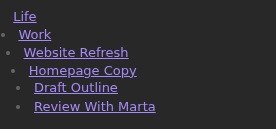
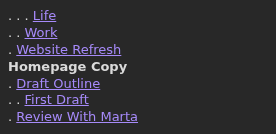
feat: new tree styling

Changed region(s): [[0.0, 0.062, 0.5797, 0.9302]]

diff --git a/docs/features/views-tree/index.html b/docs/features/views-tree/index.html
@@ -1,4 +1,4 @@
-<!DOCTYPE html><html lang="en" dir="ltr" data-theme="dark" data-has-toc data-has-sidebar class="astro-vdxcvpsm"><head><meta charset="utf-8"/><meta name="viewport" content="width=device-width, initial-scale=1"/><title>Tree view | Tasks Eye</title><link rel="canonical" href="https://ggajos.github.io/ggajos-tasks-eye/features/views-tree/"/><link rel="sitemap" href="/ggajos-tasks-eye/sitemap-index.xml"/><script>try{if(!localStorage.getItem('starlight-theme'))localStorage.setItem('starlight-theme','dark')}catch{}</script><link rel="shortcut icon" href="/ggajos-tasks-eye/favicon.svg" type="image/svg+xml"/><meta name="generator" content="Astro v7.0.7"/><meta name="generator" content="Starlight v0.41.3"/><meta property="og:title" content="Tree view"/><meta property="og:type" content="article"/><meta property="og:url" content="https://ggajos.github.io/ggajos-tasks-eye/features/views-tree/"/><meta property="og:locale" content="en"/><meta property="og:description" content="The Tree view opens in a side panel and shows where the active note sits in the `up` hierarchy: the spine from the root down to the current note, then the full subtree of notes beneath it, rendered as a nested list of native Obsidian links."/><meta property="og:site_name" content="Tasks Eye"/><meta name="twitter:card" content="summary_large_image"/><meta name="description" content="The Tree view opens in a side panel and shows where the active note sits in the `up` hierarchy: the spine from the root down to the current note, then the full subtree of notes beneath it, rendered as a nested list of native Obsidian links."/><script>
+<!DOCTYPE html><html lang="en" dir="ltr" data-theme="dark" data-has-toc data-has-sidebar class="astro-vdxcvpsm"><head><meta charset="utf-8"/><meta name="viewport" content="width=device-width, initial-scale=1"/><title>Tree view | Tasks Eye</title><link rel="canonical" href="https://ggajos.github.io/ggajos-tasks-eye/features/views-tree/"/><link rel="sitemap" href="/ggajos-tasks-eye/sitemap-index.xml"/><script>try{if(!localStorage.getItem('starlight-theme'))localStorage.setItem('starlight-theme','dark')}catch{}</script><link rel="shortcut icon" href="/ggajos-tasks-eye/favicon.svg" type="image/svg+xml"/><meta name="generator" content="Astro v7.0.7"/><meta name="generator" content="Starlight v0.41.3"/><meta property="og:title" content="Tree view"/><meta property="og:type" content="article"/><meta property="og:url" content="https://ggajos.github.io/ggajos-tasks-eye/features/views-tree/"/><meta property="og:locale" content="en"/><meta property="og:description" content="The Tree view opens in a side panel and shows where the active note sits in the `up` hierarchy: the spine from the root down to the current note, then the full subtree of notes beneath it, with dot prefixes that show distance from the current note."/><meta property="og:site_name" content="Tasks Eye"/><meta name="twitter:card" content="summary_large_image"/><meta name="description" content="The Tree view opens in a side panel and shows where the active note sits in the `up` hierarchy: the spine from the root down to the current note, then the full subtree of notes beneath it, with dot prefixes that show distance from the current note."/><script>
 	window.StarlightThemeProvider = (() => {
 		const storedTheme =
 			typeof localStorage !== 'undefined' && localStorage.getItem('starlight-theme');
@@ -70,7 +70,7 @@
 		})();
 	</script></sl-sidebar-state-persist><div class="md:sl-hidden"><div class="mobile-preferences sl-flex astro-b5gddk54"><div class="social-icons astro-b5gddk54"><a href="https://github.com/ggajos/ggajos-tasks-eye" rel="me" class="sl-flex astro-cg55etiy"><span class="sr-only astro-cg55etiy">GitHub</span><svg aria-hidden="true" class="astro-cg55etiy astro-n5k4ipy7" width="16" height="16" viewBox="0 0 24 24" fill="currentColor" style="--sl-icon-size: 1em;"><path d="M12 .3a12 12 0 0 0-3.8 23.38c.6.12.83-.26.83-.57L9 21.07c-3.34.72-4.04-1.61-4.04-1.61-.55-1.39-1.34-1.76-1.34-1.76-1.08-.74.09-.73.09-.73 1.2.09 1.83 1.24 1.83 1.24 1.08 1.83 2.81 1.3 3.5 1 .1-.78.42-1.31.76-1.61-2.67-.3-5.47-1.33-5.47-5.93 0-1.31.47-2.38 1.24-3.22-.14-.3-.54-1.52.1-3.18 0 0 1-.32 3.3 1.23a11.5 11.5 0 0 1 6 0c2.28-1.55 3.29-1.23 3.29-1.23.64 1.66.24 2.88.12 3.18a4.65 4.65 0 0 1 1.23 3.22c0 4.61-2.8 5.63-5.48 5.92.42.36.81 1.1.81 2.22l-.01 3.29c0 .31.2.69.82.57A12 12 0 0 0 12 .3Z"/></svg></a></div><starlight-theme-select><label style="--sl-select-width: 6.25em" class="astro-r2p65idu"><span class="sr-only astro-r2p65idu">Select theme</span><svg aria-hidden="true" class="icon label-icon astro-r2p65idu astro-n5k4ipy7" width="16" height="16" viewBox="0 0 24 24" fill="currentColor" style="--sl-icon-size: 1em;"><path d="M21 14h-1V7a3 3 0 0 0-3-3H7a3 3 0 0 0-3 3v7H3a1 1 0 0 0-1 1v2a3 3 0 0 0 3 3h14a3 3 0 0 0 3-3v-2a1 1 0 0 0-1-1ZM6 7a1 1 0 0 1 1-1h10a1 1 0 0 1 1 1v7H6V7Zm14 10a1 1 0 0 1-1 1H5a1 1 0 0 1-1-1v-1h16v1Z"/></svg><select autocomplete="off" class="astro-r2p65idu"><option value="dark" class="astro-r2p65idu">Dark</option><option value="light" class="astro-r2p65idu">Light</option><option value="auto" selected class="astro-r2p65idu">Auto</option></select><svg aria-hidden="true" class="icon caret astro-r2p65idu astro-n5k4ipy7" width="16" height="16" viewBox="0 0 24 24" fill="currentColor" style="--sl-icon-size: 1em;"><path d="M17 9.17a1 1 0 0 0-1.41 0L12 12.71 8.46 9.17a1 1 0 1 0-1.41 1.42l4.24 4.24a1.002 1.002 0 0 0 1.42 0L17 10.59a1.002 1.002 0 0 0 0-1.42Z"/></svg></label></starlight-theme-select><script>
 	StarlightThemeProvider.updatePickers();
-</script></div></div></div></div></nav><div class="main-frame astro-gqpr5s5a"><script type="module">var e=document.getElementById(`starlight__sidebar`),t=e?.querySelector(`sl-sidebar-state-persist`),n=`sl-sidebar-state`,r=()=>{let r=[],i=t?.dataset.hash||``;try{let e=sessionStorage.getItem(n),t=JSON.parse(e||`{}`);Array.isArray(t.open)&&t.hash===i&&(r=t.open)}catch{}return{hash:i,open:r,scroll:e?.scrollTop||0}},i=e=>{try{sessionStorage.setItem(n,JSON.stringify(e))}catch{}},a=()=>i(r()),o=(e,t)=>{let n=r();n.open[t]=e,i(n)};t?.addEventListener(`click`,e=>{if(!(e.target instanceof Element))return;let t=e.target.closest(`summary`)?.closest(`details`);if(!t)return;let n=t.querySelector(`sl-sidebar-restore`),r=parseInt(n?.dataset.index||``);isNaN(r)||o(!t.open,r)}),addEventListener(`visibilitychange`,()=>{document.visibilityState===`hidden`&&a()}),addEventListener(`pageHide`,a);</script><div class="lg:sl-flex astro-abfeecmu"><aside class="right-sidebar-container print:hidden astro-abfeecmu"><div class="right-sidebar astro-abfeecmu"><div class="lg:sl-hidden astro-q5mffni3"><mobile-starlight-toc data-min-h="2" data-max-h="3" class="astro-5ulgm6bh"><nav aria-labelledby="starlight__on-this-page--mobile" class="astro-5ulgm6bh"><details id="starlight__mobile-toc" class="astro-5ulgm6bh"><summary id="starlight__on-this-page--mobile" class="sl-flex astro-5ulgm6bh"><span class="toggle sl-flex astro-5ulgm6bh">On this page<svg aria-hidden="true" class="caret astro-5ulgm6bh astro-n5k4ipy7" width="16" height="16" viewBox="0 0 24 24" fill="currentColor" style="--sl-icon-size: 1rem;"><path d="m14.83 11.29-4.24-4.24a1 1 0 1 0-1.42 1.41L12.71 12l-3.54 3.54a1 1 0 0 0 0 1.41 1 1 0 0 0 .71.29 1 1 0 0 0 .71-.29l4.24-4.24a1.002 1.002 0 0 0 0-1.42Z"/></svg></span><span class="display-current astro-5ulgm6bh"></span></summary><div class="dropdown astro-5ulgm6bh"><ul class="isMobile astro-cxyftcne" style="--depth: 0;"><li style="--depth: 0;" class="astro-cxyftcne"><a href="#_top" style="--depth: 0;" class="astro-cxyftcne"><span style="--depth: 0;" class="astro-cxyftcne">Overview</span></a></li><li style="--depth: 0;" class="astro-cxyftcne"><a href="#why-it-matters" style="--depth: 0;" class="astro-cxyftcne"><span style="--depth: 0;" class="astro-cxyftcne">Why it matters</span></a></li><li style="--depth: 0;" class="astro-cxyftcne"><a href="#what-to-expect" style="--depth: 0;" class="astro-cxyftcne"><span style="--depth: 0;" class="astro-cxyftcne">What to expect</span></a></li><li style="--depth: 0;" class="astro-cxyftcne"><a href="#what-it-looks-like" style="--depth: 0;" class="astro-cxyftcne"><span style="--depth: 0;" class="astro-cxyftcne">What it looks like</span></a><ul class="isMobile astro-cxyftcne" style="--depth: 1;"><li style="--depth: 1;" class="astro-cxyftcne"><a href="#the-tree-side-panel" style="--depth: 1;" class="astro-cxyftcne"><span style="--depth: 1;" class="astro-cxyftcne">The Tree side panel</span></a></li></ul></li></ul></div></details></nav></mobile-starlight-toc><script type="module" src="/ggajos-tasks-eye/assets/starlight/MobileTableOfContents.astro_astro_type_script_index_0_lang.BcSo_yiZ.js"></script></div><div class="right-sidebar-panel sl-hidden lg:sl-block astro-q5mffni3"><div class="sl-container astro-q5mffni3"><starlight-toc data-min-h="2" data-max-h="3"><nav aria-labelledby="starlight__on-this-page"><h2 id="starlight__on-this-page">On this page</h2><ul class="astro-cxyftcne" style="--depth: 0;"><li style="--depth: 0;" class="astro-cxyftcne"><a href="#_top" style="--depth: 0;" class="astro-cxyftcne"><span style="--depth: 0;" class="astro-cxyftcne">Overview</span></a></li><li style="--depth: 0;" class="astro-cxyftcne"><a href="#why-it-matters" style="--depth: 0;" class="astro-cxyftcne"><span style="--depth: 0;" class="astro-cxyftcne">Why it matters</span></a></li><li style="--depth: 0;" class="astro-cxyftcne"><a href="#what-to-expect" style="--depth: 0;" class="astro-cxyftcne"><span style="--depth: 0;" class="astro-cxyftcne">What to expect</span></a></li><li style="--depth: 0;" class="astro-cxyftcne"><a href="#what-it-looks-like" style="--depth: 0;" class="astro-cxyftcne"><span style="--depth: 0;" class="astro-cxyftcne">What it looks like</span></a><ul class="astro-cxyftcne" style="--depth: 1;"><li style="--depth: 1;" class="astro-cxyftcne"><a href="#the-tree-side-panel" style="--depth: 1;" class="astro-cxyftcne"><span style="--depth: 1;" class="astro-cxyftcne">The Tree side panel</span></a></li></ul></li></ul></nav></starlight-toc><script type="module" src="/ggajos-tasks-eye/assets/starlight/TableOfContents.astro_astro_type_script_index_0_lang.Csloo1VZ.js"></script></div></div></div></aside><div class="main-pane astro-abfeecmu"><main data-pagefind-body class="astro-vdxcvpsm" lang="en" dir="ltr"><div class="content-panel astro-oil7k7jf"><div class="sl-container astro-oil7k7jf"><h1 id="_top" class="astro-2sm4b3ln">Tree view</h1></div></div><div class="content-panel astro-oil7k7jf"><div class="sl-container astro-oil7k7jf"><div class="sl-markdown-content"><p>The Tree view opens in a side panel and shows where the active note sits in the <code dir="auto">up</code> hierarchy: the spine from the root down to the current note, then the full subtree of notes beneath it, rendered as a nested list of native Obsidian links.</p>
+</script></div></div></div></div></nav><div class="main-frame astro-gqpr5s5a"><script type="module">var e=document.getElementById(`starlight__sidebar`),t=e?.querySelector(`sl-sidebar-state-persist`),n=`sl-sidebar-state`,r=()=>{let r=[],i=t?.dataset.hash||``;try{let e=sessionStorage.getItem(n),t=JSON.parse(e||`{}`);Array.isArray(t.open)&&t.hash===i&&(r=t.open)}catch{}return{hash:i,open:r,scroll:e?.scrollTop||0}},i=e=>{try{sessionStorage.setItem(n,JSON.stringify(e))}catch{}},a=()=>i(r()),o=(e,t)=>{let n=r();n.open[t]=e,i(n)};t?.addEventListener(`click`,e=>{if(!(e.target instanceof Element))return;let t=e.target.closest(`summary`)?.closest(`details`);if(!t)return;let n=t.querySelector(`sl-sidebar-restore`),r=parseInt(n?.dataset.index||``);isNaN(r)||o(!t.open,r)}),addEventListener(`visibilitychange`,()=>{document.visibilityState===`hidden`&&a()}),addEventListener(`pageHide`,a);</script><div class="lg:sl-flex astro-abfeecmu"><aside class="right-sidebar-container print:hidden astro-abfeecmu"><div class="right-sidebar astro-abfeecmu"><div class="lg:sl-hidden astro-q5mffni3"><mobile-starlight-toc data-min-h="2" data-max-h="3" class="astro-5ulgm6bh"><nav aria-labelledby="starlight__on-this-page--mobile" class="astro-5ulgm6bh"><details id="starlight__mobile-toc" class="astro-5ulgm6bh"><summary id="starlight__on-this-page--mobile" class="sl-flex astro-5ulgm6bh"><span class="toggle sl-flex astro-5ulgm6bh">On this page<svg aria-hidden="true" class="caret astro-5ulgm6bh astro-n5k4ipy7" width="16" height="16" viewBox="0 0 24 24" fill="currentColor" style="--sl-icon-size: 1rem;"><path d="m14.83 11.29-4.24-4.24a1 1 0 1 0-1.42 1.41L12.71 12l-3.54 3.54a1 1 0 0 0 0 1.41 1 1 0 0 0 .71.29 1 1 0 0 0 .71-.29l4.24-4.24a1.002 1.002 0 0 0 0-1.42Z"/></svg></span><span class="display-current astro-5ulgm6bh"></span></summary><div class="dropdown astro-5ulgm6bh"><ul class="isMobile astro-cxyftcne" style="--depth: 0;"><li style="--depth: 0;" class="astro-cxyftcne"><a href="#_top" style="--depth: 0;" class="astro-cxyftcne"><span style="--depth: 0;" class="astro-cxyftcne">Overview</span></a></li><li style="--depth: 0;" class="astro-cxyftcne"><a href="#why-it-matters" style="--depth: 0;" class="astro-cxyftcne"><span style="--depth: 0;" class="astro-cxyftcne">Why it matters</span></a></li><li style="--depth: 0;" class="astro-cxyftcne"><a href="#what-to-expect" style="--depth: 0;" class="astro-cxyftcne"><span style="--depth: 0;" class="astro-cxyftcne">What to expect</span></a></li><li style="--depth: 0;" class="astro-cxyftcne"><a href="#what-it-looks-like" style="--depth: 0;" class="astro-cxyftcne"><span style="--depth: 0;" class="astro-cxyftcne">What it looks like</span></a><ul class="isMobile astro-cxyftcne" style="--depth: 1;"><li style="--depth: 1;" class="astro-cxyftcne"><a href="#the-tree-side-panel" style="--depth: 1;" class="astro-cxyftcne"><span style="--depth: 1;" class="astro-cxyftcne">The Tree side panel</span></a></li></ul></li></ul></div></details></nav></mobile-starlight-toc><script type="module" src="/ggajos-tasks-eye/assets/starlight/MobileTableOfContents.astro_astro_type_script_index_0_lang.BcSo_yiZ.js"></script></div><div class="right-sidebar-panel sl-hidden lg:sl-block astro-q5mffni3"><div class="sl-container astro-q5mffni3"><starlight-toc data-min-h="2" data-max-h="3"><nav aria-labelledby="starlight__on-this-page"><h2 id="starlight__on-this-page">On this page</h2><ul class="astro-cxyftcne" style="--depth: 0;"><li style="--depth: 0;" class="astro-cxyftcne"><a href="#_top" style="--depth: 0;" class="astro-cxyftcne"><span style="--depth: 0;" class="astro-cxyftcne">Overview</span></a></li><li style="--depth: 0;" class="astro-cxyftcne"><a href="#why-it-matters" style="--depth: 0;" class="astro-cxyftcne"><span style="--depth: 0;" class="astro-cxyftcne">Why it matters</span></a></li><li style="--depth: 0;" class="astro-cxyftcne"><a href="#what-to-expect" style="--depth: 0;" class="astro-cxyftcne"><span style="--depth: 0;" class="astro-cxyftcne">What to expect</span></a></li><li style="--depth: 0;" class="astro-cxyftcne"><a href="#what-it-looks-like" style="--depth: 0;" class="astro-cxyftcne"><span style="--depth: 0;" class="astro-cxyftcne">What it looks like</span></a><ul class="astro-cxyftcne" style="--depth: 1;"><li style="--depth: 1;" class="astro-cxyftcne"><a href="#the-tree-side-panel" style="--depth: 1;" class="astro-cxyftcne"><span style="--depth: 1;" class="astro-cxyftcne">The Tree side panel</span></a></li></ul></li></ul></nav></starlight-toc><script type="module" src="/ggajos-tasks-eye/assets/starlight/TableOfContents.astro_astro_type_script_index_0_lang.Csloo1VZ.js"></script></div></div></div></aside><div class="main-pane astro-abfeecmu"><main data-pagefind-body class="astro-vdxcvpsm" lang="en" dir="ltr"><div class="content-panel astro-oil7k7jf"><div class="sl-container astro-oil7k7jf"><h1 id="_top" class="astro-2sm4b3ln">Tree view</h1></div></div><div class="content-panel astro-oil7k7jf"><div class="sl-container astro-oil7k7jf"><div class="sl-markdown-content"><p>The Tree view opens in a side panel and shows where the active note sits in the <code dir="auto">up</code> hierarchy: the spine from the root down to the current note, then the full subtree of notes beneath it, with dot prefixes that show distance from the current note.</p>
 <div class="sl-heading-wrapper level-h2"><h2 id="why-it-matters">Why it matters</h2><a class="sl-anchor-link" href="#why-it-matters"><span aria-hidden="true" class="sl-anchor-icon"><svg width="16" height="16" viewBox="0 0 24 24" fill="currentColor"><path d="m12.11 15.39-3.88 3.88a2.52 2.52 0 0 1-3.5 0 2.47 2.47 0 0 1 0-3.5l3.88-3.88a1 1 0 1 0-1.42-1.42l-3.88 3.89a4.48 4.48 0 0 0 6.33 6.33l3.89-3.88a1 1 0 0 0-1.42-1.42m8.58-12.08a4.49 4.49 0 0 0-6.33 0l-3.89 3.88a1 1 0 1 0 1.42 1.42l3.88-3.88a2.52 2.52 0 0 1 3.5 0 2.47 2.47 0 0 1 0 3.5l-3.88 3.88a1 1 0 0 0 0 1.42 1 1 0 0 0 1.42 0l3.88-3.89a4.49 4.49 0 0 0 0-6.33M8.83 15.17a1 1 0 0 0 .71.29 1 1 0 0 0 .71-.29l4.92-4.92a1 1 0 1 0-1.42-1.42l-4.92 4.92a1 1 0 0 0 0 1.42"></path></svg></span><span class="sr-only" data-pagefind-ignore>Section titled “Why it matters”</span></a></div>
 <p>The board views answer “what should I do next?” but say nothing about where a
 note lives in your project hierarchy. When you are deep inside a note, it is easy
@@ -78,19 +78,22 @@ to lose track of the path back to its root and of everything that hangs beneath
 it.</p>
 <p>The Tree view makes that structure visible. It walks the <code dir="auto">up</code> links from the
 current note up to the root and shows that spine, then expands the full subtree
-of notes below the current one. Ancestors appear as a single path, without
-sibling clutter, so the line back to the root stays obvious.</p>
-<p>Everything is a plain Obsidian link. Notes keep their normal styling, and
-clicking one opens it — which re-anchors the panel on the note you just opened,
-so the tree follows you as you move through the vault. The view stays note-level
-on purpose: it is a map of how notes relate through <code dir="auto">up</code>, not another task list.</p>
+of notes below the current one. The current note stays bold at column zero;
+plain dot prefixes express distance from it in either direction. Ancestors
+appear as a single path, without sibling clutter, so the line back to the root
+stays obvious.</p>
+<p>All other notes are plain Obsidian links, so they keep their normal styling and
+clicking one re-anchors the panel on the note you just opened. The view stays
+note-level on purpose: it is a map of how notes relate through <code dir="auto">up</code>, not another
+task list.</p>
 <div class="sl-heading-wrapper level-h2"><h2 id="what-to-expect">What to expect</h2><a class="sl-anchor-link" href="#what-to-expect"><span aria-hidden="true" class="sl-anchor-icon"><svg width="16" height="16" viewBox="0 0 24 24" fill="currentColor"><path d="m12.11 15.39-3.88 3.88a2.52 2.52 0 0 1-3.5 0 2.47 2.47 0 0 1 0-3.5l3.88-3.88a1 1 0 1 0-1.42-1.42l-3.88 3.89a4.48 4.48 0 0 0 6.33 6.33l3.89-3.88a1 1 0 0 0-1.42-1.42m8.58-12.08a4.49 4.49 0 0 0-6.33 0l-3.89 3.88a1 1 0 1 0 1.42 1.42l3.88-3.88a2.52 2.52 0 0 1 3.5 0 2.47 2.47 0 0 1 0 3.5l-3.88 3.88a1 1 0 0 0 0 1.42 1 1 0 0 0 1.42 0l3.88-3.89a4.49 4.49 0 0 0 0-6.33M8.83 15.17a1 1 0 0 0 .71.29 1 1 0 0 0 .71-.29l4.92-4.92a1 1 0 1 0-1.42-1.42l-4.92 4.92a1 1 0 0 0 0 1.42"></path></svg></span><span class="sr-only" data-pagefind-ignore>Section titled “What to expect”</span></a></div>
 <ul>
 <li>The Tree panel follows the active note and re-anchors as you navigate.</li>
 <li>It renders the ancestor spine from the root down to the current note, without siblings.</li>
 <li>It renders the full descendant subtree of the current note, sorted by note name.</li>
-<li>The current note sits between its ancestors and its descendants.</li>
-<li>Notes render as native Obsidian markdown links, so link styling plugins apply; clicking one opens it and re-anchors the panel.</li>
+<li>The current note is bold, sits at column zero between its ancestors and descendants, and is not a link.</li>
+<li>Ancestors and descendants use matching dot prefixes to show their distance from the current note.</li>
+<li>Other notes render as native Obsidian markdown links, so link styling plugins apply; clicking one opens it and re-anchors the panel.</li>
 <li>Opening a note that is not indexed shows a gentle empty state.</li>
 </ul>
 <div class="sl-heading-wrapper level-h2"><h2 id="what-it-looks-like">What it looks like</h2><a class="sl-anchor-link" href="#what-it-looks-like"><span aria-hidden="true" class="sl-anchor-icon"><svg width="16" height="16" viewBox="0 0 24 24" fill="currentColor"><path d="m12.11 15.39-3.88 3.88a2.52 2.52 0 0 1-3.5 0 2.47 2.47 0 0 1 0-3.5l3.88-3.88a1 1 0 1 0-1.42-1.42l-3.88 3.89a4.48 4.48 0 0 0 6.33 6.33l3.89-3.88a1 1 0 0 0-1.42-1.42m8.58-12.08a4.49 4.49 0 0 0-6.33 0l-3.89 3.88a1 1 0 1 0 1.42 1.42l3.88-3.88a2.52 2.52 0 0 1 3.5 0 2.47 2.47 0 0 1 0 3.5l-3.88 3.88a1 1 0 0 0 0 1.42 1 1 0 0 0 1.42 0l3.88-3.89a4.49 4.49 0 0 0 0-6.33M8.83 15.17a1 1 0 0 0 .71.29 1 1 0 0 0 .71-.29l4.92-4.92a1 1 0 1 0-1.42-1.42l-4.92 4.92a1 1 0 0 0 0 1.42"></path></svg></span><span class="sr-only" data-pagefind-ignore>Section titled “What it looks like”</span></a></div>

diff --git a/features/views-tree/views-tree.test.ts b/features/views-tree/views-tree.test.ts
@@ -118,28 +118,28 @@ const linkText = (ref: { path: string }) =>
   ref.path.replace(/\.md$/i, "").split("/").pop() ?? ref.path;
 
 describe("noteTreeMarkdown", () => {
-  it("indents the spine, the current note and its descendants", () => {
+  it("renders the spine, current note and descendants around one anchor", () => {
     const tree = buildNoteTree(SITE.path, VAULT)!;
     expect(noteTreeMarkdown(tree, linkText)).toBe(
       [
-        "- [[Root]]",
-        "  - [[Work]]",
-        "    - [[Site]]",
-        "      - [[Site A]]",
-        "      - [[Site B]]",
+        ". . [[Root]]  ",
+        ". [[Work]]  ",
+        "**Site**  ",
+        ". [[Site A]]  ",
+        ". [[Site B]]  ",
       ].join("\n"),
     );
   });
 
-  it("nests grandchildren one level deeper than their parent", () => {
+  it("uses dot distance for nested descendants", () => {
     const tree = buildNoteTree(WORK.path, VAULT)!;
     expect(noteTreeMarkdown(tree, linkText)).toBe(
       [
-        "- [[Root]]",
-        "  - [[Work]]",
-        "    - [[Site]]",
-        "      - [[Site A]]",
-        "      - [[Site B]]",
+        ". [[Root]]  ",
+        "**Work**  ",
+        ". [[Site]]  ",
+        ". . [[Site A]]  ",
+        ". . [[Site B]]  ",
       ].join("\n"),
     );
   });
@@ -147,7 +147,7 @@ describe("noteTreeMarkdown", () => {
   it("emits a single item for a root note without descendants", () => {
     const only = noteFile("Solo.md", '"-"');
     const tree = buildNoteTree(only.path, [only])!;
-    expect(noteTreeMarkdown(tree, linkText)).toBe("- [[Solo]]");
+    expect(noteTreeMarkdown(tree, linkText)).toBe("**Solo**  ");
   });
 
   it("uses the resolver for every reference", () => {
@@ -156,10 +156,10 @@ describe("noteTreeMarkdown", () => {
       noteTreeMarkdown(tree, (ref) => ref.path.replace(/\.md$/i, "")),
     ).toBe(
       [
-        "- [[Root]]",
-        "  - [[Work/Work]]",
-        "    - [[Work/Site]]",
-        "      - [[Work/Site A]]",
+        ". . . [[Root]]  ",
+        ". . [[Work/Work]]  ",
+        ". [[Work/Site]]  ",
+        "**Site A**  ",
       ].join("\n"),
     );
   });

diff --git a/features/views-tree/wdio.ts b/features/views-tree/wdio.ts
@@ -8,6 +8,7 @@ const CONTEXT = "Work";
 const PROJECT = "Website Refresh";
 const CURRENT = "Homepage Copy";
 const CHILD_A = "Draft Outline";
+const GRANDCHILD_A = "First Draft";
 const CHILD_B = "Review With Marta";
 
 export const { acceptanceScenarios, screenshotScenarios } = featureScenarios(
@@ -32,6 +33,11 @@ export const { acceptanceScenarios, screenshotScenarios } = featureScenarios(
       status: "open",
       up: "[[Homepage Copy]]",
       tasks: ["Sketch the sections"],
+    }),
+    note("Work/First Draft.md", {
+      status: "open",
+      up: "[[Draft Outline]]",
+      tasks: ["Write the opening section"],
     }),
     note("Work/Review With Marta.md", {
       status: "open",
@@ -59,15 +65,17 @@ export const { acceptanceScenarios, screenshotScenarios } = featureScenarios(
             PROJECT,
             CURRENT,
             CHILD_A,
+            GRANDCHILD_A,
             CHILD_B,
           ]);
-          expect(await tasksEyePage.treeNoteOutline()).toEqual([
-            { name: ROOT, depth: 0 },
-            { name: CONTEXT, depth: 1 },
-            { name: PROJECT, depth: 2 },
-            { name: CURRENT, depth: 3 },
-            { name: CHILD_A, depth: 4 },
-            { name: CHILD_B, depth: 4 },
+          expect(await tasksEyePage.treeNoteLines()).toEqual([
+            ". . . Life",
+            ". . Work",
+            ". Website Refresh",
+            CURRENT,
+            ". Draft Outline",
+            ". . First Draft",
+            ". Review With Marta",
           ]);
         },
       },
@@ -85,6 +93,7 @@ export const { acceptanceScenarios, screenshotScenarios } = featureScenarios(
             PROJECT,
             CURRENT,
             CHILD_A,
+            GRANDCHILD_A,
           ]);
         },
       },

diff --git a/features/views-tree/feature.ts b/features/views-tree/feature.ts
@@ -3,13 +3,14 @@ import { defineFeature } from "../types";
 export default defineFeature({
   title: "Tree view",
   summary:
-    "The Tree view opens in a side panel and shows where the active note sits in the `up` hierarchy: the spine from the root down to the current note, then the full subtree of notes beneath it, rendered as a nested list of native Obsidian links.",
+    "The Tree view opens in a side panel and shows where the active note sits in the `up` hierarchy: the spine from the root down to the current note, then the full subtree of notes beneath it, with dot prefixes that show distance from the current note.",
   acceptanceCriteria: [
     "The Tree panel follows the active note and re-anchors as you navigate.",
     "It renders the ancestor spine from the root down to the current note, without siblings.",
     "It renders the full descendant subtree of the current note, sorted by note name.",
-    "The current note sits between its ancestors and its descendants.",
-    "Notes render as native Obsidian markdown links, so link styling plugins apply; clicking one opens it and re-anchors the panel.",
+    "The current note is bold, sits at column zero between its ancestors and descendants, and is not a link.",
+    "Ancestors and descendants use matching dot prefixes to show their distance from the current note.",
+    "Other notes render as native Obsidian markdown links, so link styling plugins apply; clicking one opens it and re-anchors the panel.",
     "Opening a note that is not indexed shows a gentle empty state.",
   ],
   screenshots: [

diff --git a/acceptance/support/tasks-eye-page.ts b/acceptance/support/tasks-eye-page.ts
@@ -128,34 +128,24 @@ export const tasksEyePage = {
   },
 
   async treeNoteNames(): Promise<string[]> {
-    return await browser.execute(() =>
-      [
-        ...document.querySelectorAll<HTMLElement>(
-          ".eye-note-tree li a.internal-link",
-        ),
-      ].map((node) => node.textContent ?? ""));
+    return (await this.treeNoteLines()).map((line) =>
+      line.replace(/^(?:\. )+/, ""),
+    );
   },
 
-  async treeNoteOutline(): Promise<{ name: string; depth: number }[]> {
+  async treeNoteLines(): Promise<string[]> {
     return await browser.execute(() => {
       const root = document.querySelector(".eye-note-tree");
       if (!root) return [];
-      return [
-        ...root.querySelectorAll<HTMLElement>("li a.internal-link"),
-      ].map((link) => {
-        let depth = -1;
-        let node: HTMLElement | null = link;
-        while (node && node !== root) {
-          if (node.tagName === "UL") depth += 1;
-          node = node.parentElement;
-        }
-        return { name: link.textContent ?? "", depth };
-      });
+      return root.innerText
+        .split("\n")
+        .map((line) => line.trimEnd())
+        .filter((line) => line.length > 0);
     });
   },
 
   async clickTreeNote(name: string): Promise<void> {
-    const links = await $$(".eye-note-tree li a.internal-link");
+    const links = await $$(".eye-note-tree a.internal-link");
     for (const link of links) {
       if (await link.getText() === name) {
         await link.click();

diff --git a/src/tree.ts b/src/tree.ts
@@ -93,21 +93,22 @@ export function noteTreeMarkdown(
   toLinkText: TreeLinkResolver,
 ): string {
   const lines: string[] = [];
-  const push = (ref: TreeNoteRef, depth: number): void => {
-    lines.push(`${"  ".repeat(depth)}- [[${toLinkText(ref)}]]`);
+  const pushLink = (ref: TreeNoteRef, distance: number): void => {
+    lines.push(`${". ".repeat(distance)}[[${toLinkText(ref)}]]  `);
   };
 
-  let depth = 0;
-  for (const ref of tree.spine) push(ref, depth++);
-  push(tree.current, depth);
+  for (const [index, ref] of tree.spine.entries()) {
+    pushLink(ref, tree.spine.length - index);
+  }
+  lines.push(`**${tree.current.basename}**  `);
 
-  const walk = (nodes: readonly TreeNode[], nodeDepth: number): void => {
+  const walk = (nodes: readonly TreeNode[], distance: number): void => {
     for (const node of nodes) {
-      push(node, nodeDepth);
-      walk(node.children, nodeDepth + 1);
+      pushLink(node, distance);
+      walk(node.children, distance + 1);
     }
   };
-  walk(tree.descendants, depth + 1);
+  walk(tree.descendants, 1);
 
   return lines.join("\n");
 }

diff --git a/styles.css b/styles.css
@@ -723,9 +723,3 @@
   line-height: var(--line-height-tight, 1.3);
   padding: 8px;
 }
-
-.eye-note-tree ul,
-.eye-note-tree li {
-  margin: 0 !important;
-  padding-left: 0.2em !important;
-}

diff --git a/features/views-tree/why.md b/features/views-tree/why.md
@@ -7,10 +7,12 @@ it.
 
 The Tree view makes that structure visible. It walks the `up` links from the
 current note up to the root and shows that spine, then expands the full subtree
-of notes below the current one. Ancestors appear as a single path, without
-sibling clutter, so the line back to the root stays obvious.
+of notes below the current one. The current note stays bold at column zero;
+plain dot prefixes express distance from it in either direction. Ancestors
+appear as a single path, without sibling clutter, so the line back to the root
+stays obvious.
 
-Everything is a plain Obsidian link. Notes keep their normal styling, and
-clicking one opens it — which re-anchors the panel on the note you just opened,
-so the tree follows you as you move through the vault. The view stays note-level
-on purpose: it is a map of how notes relate through `up`, not another task list.
+All other notes are plain Obsidian links, so they keep their normal styling and
+clicking one re-anchors the panel on the note you just opened. The view stays
+note-level on purpose: it is a map of how notes relate through `up`, not another
+task list.
